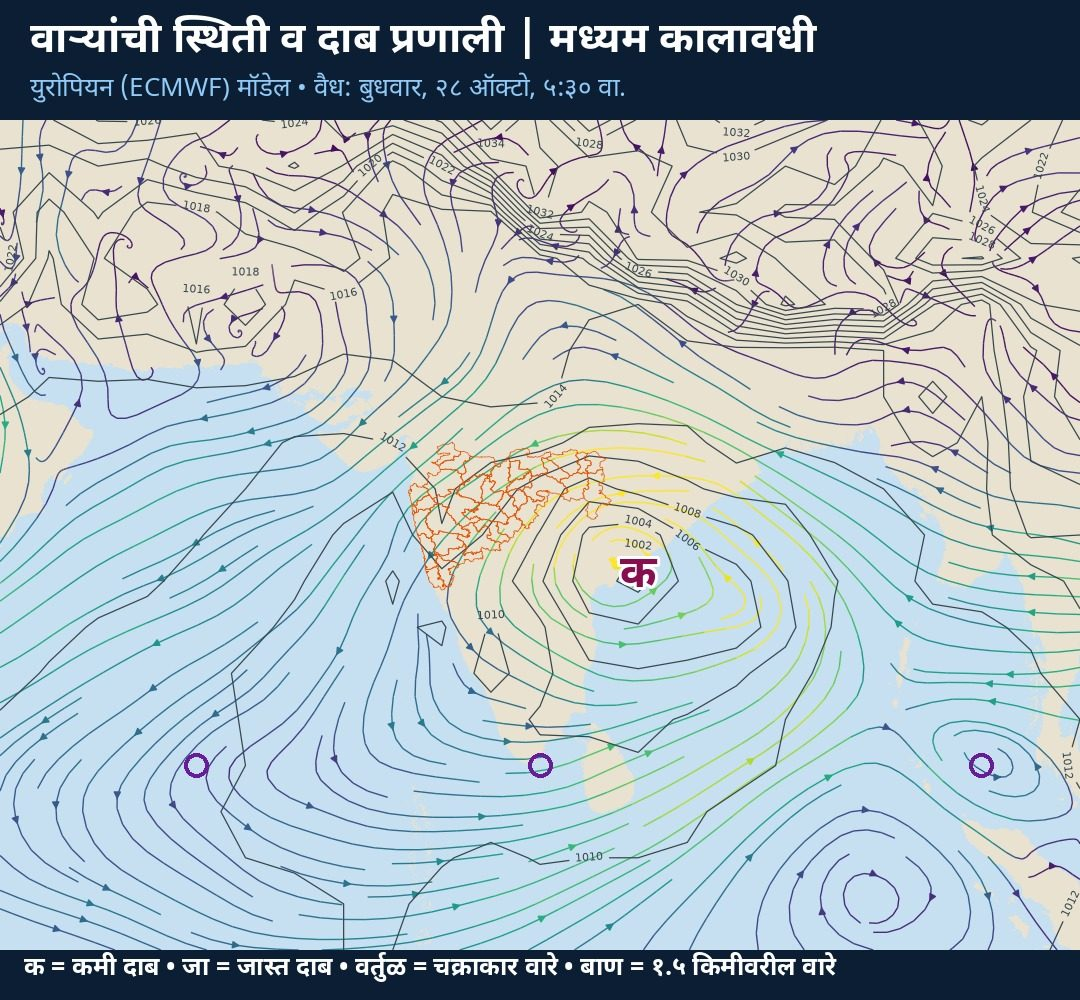
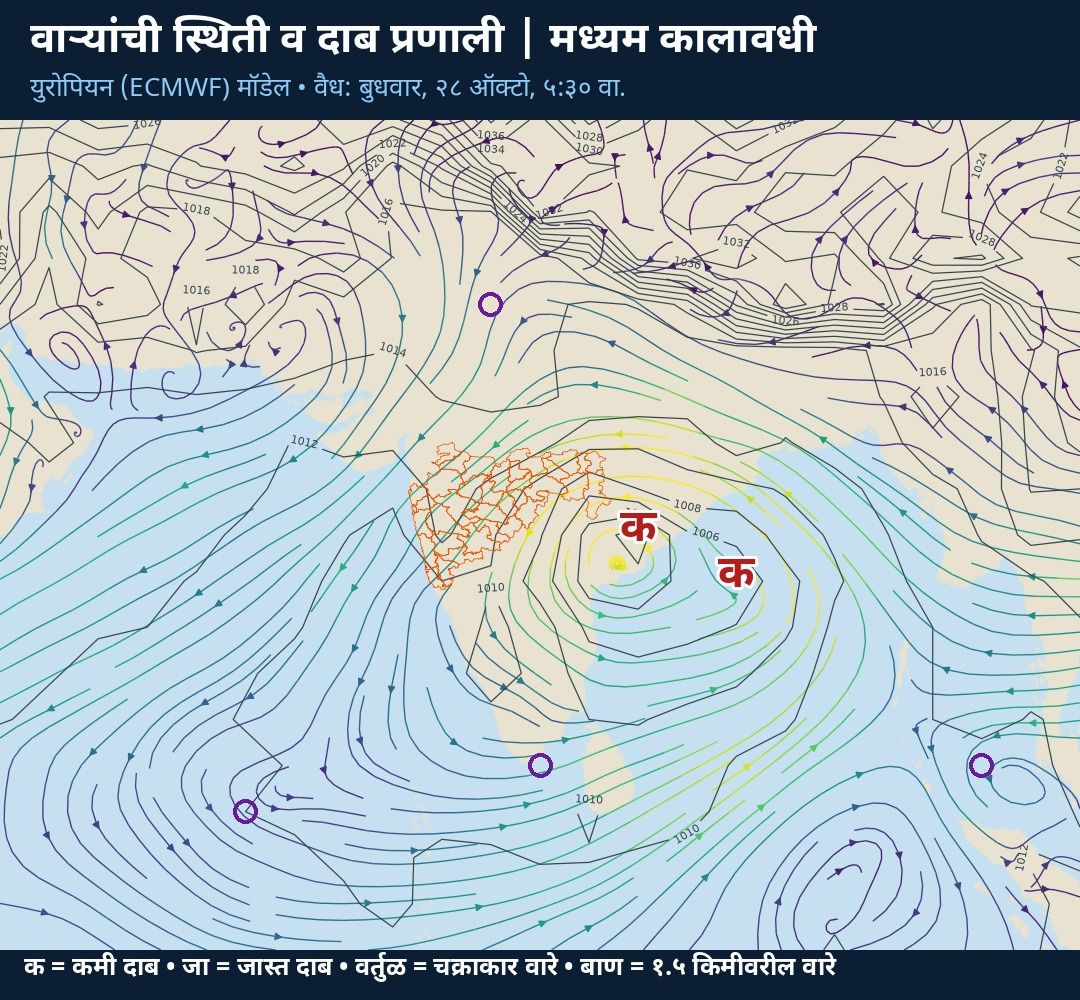
Daily alerts: reel slide gallery, full Marathi discussion, analysis (not forecast) wording

Changed region(s): [[0.0, 0.124, 1.0, 0.961]]

diff --git a/docs/alerts/2026-10-25-hawaman/index.html b/docs/alerts/2026-10-25-hawaman/index.html
@@ -4,11 +4,11 @@
   <meta charset="UTF-8">
   <meta name="viewport" content="width=device-width, initial-scale=1.0">
   <title>पुढील आठवडा (२८ ऑक्टो – ३ नोव्हें) | महाराष्ट्र — हवामान इशारा</title>
-  <meta name="description" content="माहितीपर अंदाज: पुढील आठवडा (२८ ऑक्टो – ३ नोव्हें) | महाराष्ट्र (२५ ऑक्टोबर २०२६)">
+  <meta name="description" content="माहितीपर विश्लेषण: पुढील आठवडा (२८ ऑक्टो – ३ नोव्हें) | महाराष्ट्र (२५ ऑक्टोबर २०२६)">
   <link rel="preconnect" href="https://fonts.googleapis.com">
   <link rel="preconnect" href="https://fonts.gstatic.com" crossorigin>
   <link href="https://fonts.googleapis.com/css2?family=Mukta:wght@400;500;600;700&family=Noto+Serif+Devanagari:wght@600;700&display=swap" rel="stylesheet">
-  <link rel="stylesheet" href="../../static/css/style.css?v=290eacb5">
+  <link rel="stylesheet" href="../../static/css/style.css?v=81dbad4e">
 </head>
 <body>
   <header class="site-header">
@@ -34,33 +34,84 @@
 <article class="article">
   <p class="muted"><a href="../../alerts/index.html">← सर्व इशारे</a></p>
   <div class="alert-banner level-info">
-    <span class="badge badge-info">माहितीपर अंदाज</span>
+    <span class="badge badge-info">माहितीपर विश्लेषण</span>
     <h1>पुढील आठवडा (२८ ऑक्टो – ३ नोव्हें) | महाराष्ट्र</h1>
     <dl class="alert-facts">
       <div><dt>दिनांक</dt><dd><time datetime="2026-10-25">रविवार, २५ ऑक्टोबर २०२६</time></dd></div>
-<div><dt>वैधता</dt><dd>२५ ऑक्टोबर २०२६ पासून — मध्यम कालावधी अंदाज</dd></div><div><dt>जिल्हे/भाग</dt><dd>कोकण, मध्य महाराष्ट्र, मराठवाडा, विदर्भ</dd></div>    </dl>
+<div><dt>वैधता</dt><dd>२५ ऑक्टोबर २०२६ — मध्यम कालावधी विश्लेषण (४–१० दिवस)</dd></div><div><dt>जिल्हे/भाग</dt><dd>कोकण, मध्य महाराष्ट्र, मराठवाडा, विदर्भ</dd></div>    </dl>
   </div>
-  <div class="prose"><p><strong>मध्यम कालावधी अंदाज</strong> · स्रोत: हवामान विज्ञान स्वयंचलित विश्लेषण</p>
+  <section class="reel">
+    <h2>आजचे दृश्य विश्लेषण <span class="muted">(रील स्लाइड्स)</span></h2>
+    <div class="reel-strip">
+      <figure class="reel-slide">
+        <a href="../../static/images/alerts/2026-10-25/reel/01_cover.jpg" target="_blank" rel="noopener"><img src="../../static/images/alerts/2026-10-25/reel/01_cover.jpg" alt="मुखपृष्ठ" loading="lazy" width="540" height="960"></a>
+        <figcaption><span class="slide-n">१</span> मुखपृष्ठ</figcaption>
+      </figure>
+      <figure class="reel-slide">
+        <a href="../../static/images/alerts/2026-10-25/reel/02_short_range.jpg" target="_blank" rel="noopener"><img src="../../static/images/alerts/2026-10-25/reel/02_short_range.jpg" alt="अल्पकालीन विश्लेषण" loading="lazy" width="540" height="960"></a>
+        <figcaption><span class="slide-n">२</span> अल्पकालीन विश्लेषण</figcaption>
+      </figure>
+      <figure class="reel-slide">
+        <a href="../../static/images/alerts/2026-10-25/reel/03_satellite.jpg" target="_blank" rel="noopener"><img src="../../static/images/alerts/2026-10-25/reel/03_satellite.jpg" alt="उपग्रह निरीक्षण" loading="lazy" width="540" height="960"></a>
+        <figcaption><span class="slide-n">३</span> उपग्रह निरीक्षण</figcaption>
+      </figure>
+      <figure class="reel-slide">
+        <a href="../../static/images/alerts/2026-10-25/reel/04_circulation_today_slide.jpg" target="_blank" rel="noopener"><img src="../../static/images/alerts/2026-10-25/reel/04_circulation_today_slide.jpg" alt="आजची वाऱ्यांची स्थिती" loading="lazy" width="540" height="960"></a>
+        <figcaption><span class="slide-n">४</span> आजची वाऱ्यांची स्थिती</figcaption>
+      </figure>
+      <figure class="reel-slide">
+        <a href="../../static/images/alerts/2026-10-25/reel/05_medium_range.jpg" target="_blank" rel="noopener"><img src="../../static/images/alerts/2026-10-25/reel/05_medium_range.jpg" alt="मध्यम कालावधी विश्लेषण" loading="lazy" width="540" height="960"></a>
+        <figcaption><span class="slide-n">५</span> मध्यम कालावधी विश्लेषण</figcaption>
+      </figure>
+      <figure class="reel-slide">
+        <a href="../../static/images/alerts/2026-10-25/reel/06_circulation_week.jpg" target="_blank" rel="noopener"><img src="../../static/images/alerts/2026-10-25/reel/06_circulation_week.jpg" alt="आठवड्याची वाऱ्यांची स्थिती" loading="lazy" width="540" height="960"></a>
+        <figcaption><span class="slide-n">६</span> आठवड्याची वाऱ्यांची स्थिती</figcaption>
+      </figure>
+      <figure class="reel-slide">
+        <a href="../../static/images/alerts/2026-10-25/reel/07_extended_range.jpg" target="_blank" rel="noopener"><img src="../../static/images/alerts/2026-10-25/reel/07_extended_range.jpg" alt="विस्तारित कालावधी विश्लेषण" loading="lazy" width="540" height="960"></a>
+        <figcaption><span class="slide-n">७</span> विस्तारित कालावधी विश्लेषण</figcaption>
+      </figure>
+      <figure class="reel-slide">
+        <a href="../../static/images/alerts/2026-10-25/reel/08_seasonal.jpg" target="_blank" rel="noopener"><img src="../../static/images/alerts/2026-10-25/reel/08_seasonal.jpg" alt="हंगामी विश्लेषण" loading="lazy" width="540" height="960"></a>
+        <figcaption><span class="slide-n">८</span> हंगामी विश्लेषण</figcaption>
+      </figure>
+      <figure class="reel-slide">
+        <a href="../../static/images/alerts/2026-10-25/reel/09_outro.jpg" target="_blank" rel="noopener"><img src="../../static/images/alerts/2026-10-25/reel/09_outro.jpg" alt="समारोप" loading="lazy" width="540" height="960"></a>
+        <figcaption><span class="slide-n">९</span> समारोप</figcaption>
+      </figure>
+    </div>
+  </section>
+  <div class="prose"><p><strong>मध्यम कालावधी विश्लेषण (४–१० दिवस)</strong> · स्रोत: हवामान विज्ञान स्वयंचलित विश्लेषण</p>
 <p>☔ पावसाची शक्यता:<br />
 ⛅ कोकण: कमी<br />
 🌦 म. महाराष्ट्र: मध्यम<br />
 🌦 मराठवाडा: मध्यम<br />
 🌧 विदर्भ: अधिक<br />
-🌀 २८ ऑक्टो रोजी पश्चिम-मध्य बंगालच्या उपसागरात असलेली चक्रीवादळसदृश प्रणाली वायव्येकडे सरकण्याची शक्यता</p>
-<p><img src="../../static/images/alerts/2026-10-25/1_card.jpg" alt="मध्यम कालावधी अंदाज" /></p>
+🌀 २८ ऑक्टो रोजी पश्चिम-मध्य बंगालच्या उपसागरात असलेली तीव्र कमी दाबाचे क्षेत्र वायव्येकडे सरकण्याची शक्यता</p>
+<p><img src="../../static/images/alerts/2026-10-25/1_card.jpg" alt="मध्यम कालावधी विश्लेषण (४–१० दिवस)" /></p>
 <h3>हवामानामागचे कारण</h3>
 <p>🌀 वाऱ्यांची स्थिती व कारणमीमांसा:<br />
-• २८ ऑक्टो रोजी पश्चिम-मध्य बंगालच्या उपसागरात असलेली चक्रीवादळसदृश प्रणाली वायव्येकडे (महाराष्ट्र) सरकण्याची शक्यता (मॉडेल संकेत; IMD च्या अधिकृत माहितीकडे लक्ष ठेवा). या प्रणालीमुळे राज्यात ढगाळ हवामान व पावसाची शक्यता वाढू शकते</p>
-<p>• मध्य भारतावर २९ ऑक्टो दरम्यान तीव्र कमी दाबाचे क्षेत्र (डिप्रेशन) तयार होण्याचे संकेत (मॉडेल संकेत; IMD च्या अधिकृत माहितीकडे लक्ष ठेवा)<br />
-• पूर्व-मध्य अरबी समुद्रात २ नोव्हें दरम्यान कमी दाबाचे क्षेत्र तयार होण्याचे संकेत</p>
-<p>• महाराष्ट्रावर सुमारे १.५ किमी उंचीवर ईशान्येकडून वारे<br />
-• उत्तर भारतात २८ ऑक्टो पासून पश्चिमी विक्षोभ; तो पुढे सरकल्यानंतर उत्तरेकडील थंड वाऱ्यांमुळे राज्यात किमान तापमानात घट होऊ शकते<br />
+• २८ ऑक्टो रोजी पश्चिम-मध्य बंगालच्या उपसागरात असलेली तीव्र कमी दाबाचे क्षेत्र (डिप्रेशन) वायव्येकडे (महाराष्ट्र) सरकण्याची शक्यता (मॉडेल संकेत; IMD च्या अधिकृत माहितीकडे लक्ष ठेवा). या प्रणालीमुळे राज्यात ढगाळ हवामान व पावसाची शक्यता वाढू शकते</p>
+<p>• २८ ऑक्टो रोजी पूर्व भारतावर असलेली तीव्र कमी दाबाचे क्षेत्र (डिप्रेशन) नैऋत्येकडे (महाराष्ट्र) सरकण्याची शक्यता (मॉडेल संकेत; IMD च्या अधिकृत माहितीकडे लक्ष ठेवा)</p>
+<p>• महाराष्ट्रावर १ नोव्हें दरम्यान कमी दाबाचे क्षेत्र तयार होण्याचे संकेत; प्रणाली दक्षिणेकडे (पूर्व-मध्य अरबी समुद्र) सरकण्याची शक्यता<br />
+• महाराष्ट्रावर सुमारे १.५ किमी उंचीवर ईशान्येकडून वारे</p>
+<p>• उत्तर भारतात २८ ऑक्टो पासून पश्चिमी विक्षोभ; तो पुढे सरकल्यानंतर उत्तरेकडील थंड वाऱ्यांमुळे राज्यात किमान तापमानात घट होऊ शकते<br />
 • पुढील काळात हवेच्या मधल्या थरातील बाष्प वाढत आहे</p>
 <p>📌 अधिक तपशील:<br />
 🌡 तापमानात विशेष बदल नाही</p>
 <p>ℹ स्रोत: युरोपियन (ECMWF) ५१-सदस्यीय एन्सेम्बल<br />
-⚠ हा मॉडेल-आधारित अंदाज आहे. अधिकृत इशाऱ्यांसाठी भारतीय हवामान विभाग (IMD) व स्थानिक प्रशासनाच्या सूचना पाहा.</p>
-<p><img src="../../static/images/alerts/2026-10-25/2_circulation_chart.jpg" alt="हवामान प्रणाली" /></p>
+⚠ हे मॉडेल-आधारित विश्लेषण आहे. अधिकृत इशाऱ्यांसाठी भारतीय हवामान विभाग (IMD) व स्थानिक प्रशासनाच्या सूचना पाहा.</p>
+<p><img src="../../static/images/alerts/2026-10-25/2_circulation_chart.jpg" alt="वाऱ्यांची स्थिती व दाब प्रणाली" /></p>
+<h2>सविस्तर हवामान विश्लेषण</h2>
+<h3>अल्पकालीन विश्लेषण (१–३ दिवस)</h3>
+<p>नमस्कार! आज रविवार, २५ ऑक्टोबर. पाहूया महाराष्ट्राचे हवामान विश्लेषण. कोकण: कोरडे हवामान. कमाल तापमान सुमारे ३६ आणि किमान २३ अंश सेल्सिअस. मध्य महाराष्ट्र: कोरडे हवामान. कमाल तापमान सुमारे ३५ आणि किमान २१ अंश सेल्सिअस. मराठवाडा: कोरडे हवामान. कमाल तापमान सुमारे ३४ आणि किमान २० अंश सेल्सिअस. विदर्भ: कोरडे हवामान. कमाल तापमान सुमारे ३४ आणि किमान १८ अंश सेल्सिअस. आता पाहूया हवामानामागचे कारण, म्हणजेच वाऱ्यांची स्थिती. पूर्व-मध्य बंगालच्या उपसागरात तीव्र कमी दाबाचे क्षेत्र (डिप्रेशन) आहे; ते चक्रीवादळसदृश प्रणाली म्हणून तीव्र होण्याचे संकेत; प्रणाली पश्चिमेकडे (पश्चिम-मध्य बंगालचा उपसागर) सरकण्याची शक्यता (मॉडेल संकेत; IMD च्या अधिकृत माहितीकडे लक्ष ठेवा). नैऋत्य बंगालच्या उपसागरात कमी दाबाचे क्षेत्र आहे; ते तीव्र कमी दाबाचे क्षेत्र (डिप्रेशन) म्हणून तीव्र होण्याचे संकेत (मॉडेल संकेत; IMD च्या अधिकृत माहितीकडे लक्ष ठेवा). महाराष्ट्रावर सुमारे १.५ किमी उंचीवर ईशान्येकडून कोरडे वारे; हवेच्या मधल्या थरात आर्द्रता फक्त ३२% असल्याने ढग फारसे तयार होत नाहीत.</p>
+<h3>मध्यम कालावधी विश्लेषण (४–१० दिवस)</h3>
+<p>आता पुढील आठवड्याचा, म्हणजे २८ ऑक्टो – ३ नोव्हें या काळाचे विश्लेषण. युरोपियन हवामान केंद्राच्या ५१ वेगवेगळ्या संभाव्य मॉडेल-परिणामांवर आधारित. कोकण: पावसाची शक्यता कमी. मध्य महाराष्ट्र: पावसाची शक्यता मध्यम (२ नोव्हें जास्त). मराठवाडा: पावसाची शक्यता मध्यम (२ नोव्हें जास्त). विदर्भ: पावसाची शक्यता अधिक (२९ ऑक्टो जास्त).  तापमानात विशेष बदल नाही. या काळातील वाऱ्यांची स्थिती: २८ ऑक्टो रोजी पश्चिम-मध्य बंगालच्या उपसागरात असलेली तीव्र कमी दाबाचे क्षेत्र (डिप्रेशन) वायव्येकडे (महाराष्ट्र) सरकण्याची शक्यता (मॉडेल संकेत; IMD च्या अधिकृत माहितीकडे लक्ष ठेवा). या प्रणालीमुळे राज्यात ढगाळ हवामान व पावसाची शक्यता वाढू शकते. २८ ऑक्टो रोजी पूर्व भारतावर असलेली तीव्र कमी दाबाचे क्षेत्र (डिप्रेशन) नैऋत्येकडे (महाराष्ट्र) सरकण्याची शक्यता (मॉडेल संकेत; IMD च्या अधिकृत माहितीकडे लक्ष ठेवा). महाराष्ट्रावर १ नोव्हें दरम्यान कमी दाबाचे क्षेत्र तयार होण्याचे संकेत; प्रणाली दक्षिणेकडे (पूर्व-मध्य अरबी समुद्र) सरकण्याची शक्यता. महाराष्ट्रावर सुमारे १.५ किमी उंचीवर ईशान्येकडून वारे. उत्तर भारतात २८ ऑक्टो पासून पश्चिमी विक्षोभ; तो पुढे सरकल्यानंतर उत्तरेकडील थंड वाऱ्यांमुळे राज्यात किमान तापमानात घट होऊ शकते. पुढील काळात हवेच्या मधल्या थरातील बाष्प वाढत आहे.</p>
+<h3>विस्तारित विश्लेषण (२–४ आठवडे)</h3>
+<p>आता पुढील तीन आठवड्यांचा विस्तारित विश्लेषण. आठवडा १, २६ ऑक्टो – १ नोव्हें: विदर्भ: पाऊस जास्त; कोकण, म. महाराष्ट्र: कमी. तापमान सरासरीपेक्षा २.० अंश जास्त राहण्याची शक्यता. आठवडा २, २–८ नोव्हें: पाऊस सरासरीइतका. तापमान सरासरीपेक्षा १.९ अंश जास्त राहण्याची शक्यता. आठवडा ३, ९–१५ नोव्हें: राज्यभर पाऊस सरासरीपेक्षा कमी. तापमान सरासरीपेक्षा १.५ अंश जास्त राहण्याची शक्यता. वाऱ्यांचा प्रवाह: १–८ नोव्हें: महाराष्ट्रावर पूर्वेकडून वारे कायम (५१ पैकी ५१ सदस्य); पूर्व/ईशान्येकडील वारे सहसा कोरडे हवामान आणतात. भारतीय हवामान विभाग व आयआयटीएम पुणे यांचे विस्तारित कालावधी नकाशेही हेच संकेत तपासण्यासाठी पाहा.</p>
+<h3>हंगामी विश्लेषण (१–३ महिने)</h3>
+<p>आता नोव्हेंबर ते जानेवारी या हंगामाचा दीर्घकालीन विश्लेषण. नोव्हेंबर: तापमान सरासरीपेक्षा बरेच जास्त, सुमारे +२.५ अंश; पाऊस सरासरीइतका. डिसेंबर: तापमान सरासरीपेक्षा बरेच जास्त, सुमारे +२.३ अंश; पाऊस सरासरीइतका. जानेवारी: तापमान सरासरीपेक्षा बरेच जास्त, सुमारे +२.१ अंश; पाऊस सरासरीइतका. प्रशांत महासागरात तीव्र एल निनो (नीनो-३.४: +३.३°से); तो अजून बळकट होत आहे. एल निनोमुळे येणारा हिवाळा सहसा उबदार; थंडीच्या लाटा कमी.</p>
+<p>हे मॉडेल-आधारित विश्लेषण आहे. अधिकृत इशाऱ्यांसाठी भारतीय हवामान विभाग (IMD) व स्थानिक प्रशासनाच्या सूचना पाहा.</p>
 <p>दैनंदिन अपडेटसाठी X वर फॉलो करा: <a href="https://x.com/arvind_weathLAB">@arvind_weathLAB</a></p>
 </div>
   <p class="disclaimer">हा इशारा माझ्या वैयक्तिक विश्लेषणावर आधारित माहितीपर मजकूर आहे. अधिकृत हवामान अंदाज व इशाऱ्यांसाठी कृपया भारतीय हवामान विभागाचे संकेतस्थळ mausam.imd.gov.in किंवा &#39;मौसम&#39; / &#39;दामिनी&#39; ॲप पाहा.</p>

diff --git a/docs/alerts/index.html b/docs/alerts/index.html
@@ -8,7 +8,7 @@
   <link rel="preconnect" href="https://fonts.googleapis.com">
   <link rel="preconnect" href="https://fonts.gstatic.com" crossorigin>
   <link href="https://fonts.googleapis.com/css2?family=Mukta:wght@400;500;600;700&family=Noto+Serif+Devanagari:wght@600;700&display=swap" rel="stylesheet">
-  <link rel="stylesheet" href="../static/css/style.css?v=290eacb5">
+  <link rel="stylesheet" href="../static/css/style.css?v=81dbad4e">
 </head>
 <body>
   <header class="site-header">
@@ -31,9 +31,10 @@
   </header>
 
   <main class="wrap main">
-<h1 class="page-title">दैनंदिन हवामान इशारे</h1>
-<p class="lead">महाराष्ट्रासाठी दैनंदिन हवामान अंदाज व इशारे — हवामान विज्ञान स्वयंचलित विश्लेषणातून दररोज अद्ययावत.
-  रंग IMD च्या अधिकृत जिल्हानिहाय इशाऱ्यांवरून ठरतो; तो उपलब्ध नसल्यास "माहितीपर अंदाज" दाखवला जातो.</p>
+<h1 class="page-title">दैनंदिन हवामान विश्लेषण व इशारे</h1>
+<p class="lead">महाराष्ट्रासाठी दैनंदिन हवामान विश्लेषण — हवामान विज्ञान स्वयंचलित विश्लेषणातून दररोज सकाळी अद्ययावत:
+  वाऱ्यांची स्थिती, कमी दाबाची क्षेत्रे, उपग्रह निरीक्षण आणि रील स्लाइड्स. रंग फक्त IMD च्या अधिकृत जिल्हानिहाय
+  इशाऱ्यांवरून ठरतो; ते उपलब्ध नसल्यास "माहितीपर विश्लेषण" दाखवले जाते.</p>
 
 <details class="legend card">
   <summary>इशाऱ्यांचे रंग काय सांगतात?</summary>
@@ -42,18 +43,18 @@
     <li><span class="badge badge-yellow">पिवळा इशारा · अद्ययावत राहा</span> — हवामानावर लक्ष ठेवा; परिस्थिती बदलू शकते.</li>
     <li><span class="badge badge-orange">नारंगी इशारा · तयार राहा</span> — धोकादायक हवामानाची शक्यता; आवश्यक तयारी करा.</li>
     <li><span class="badge badge-red">लाल इशारा · कृती करा</span> — अतितीव्र हवामान; स्थानिक प्रशासनाच्या सूचनांचे पालन करा.</li>
-    <li><span class="badge badge-info">माहितीपर अंदाज</span> — IMD चा जिल्हानिहाय इशारा उपलब्ध नसताना प्रसिद्ध केलेला मॉडेल-आधारित अंदाज; अधिकृत इशारा नाही.</li>
+    <li><span class="badge badge-info">माहितीपर विश्लेषण</span> — IMD चा जिल्हानिहाय इशारा उपलब्ध नसताना प्रसिद्ध केलेले मॉडेल-आधारित हवामान विश्लेषण; अधिकृत इशारा नाही.</li>
   </ul>
 </details>
 
 <div class="stack">
 <article class="alert-card level-info">
   <div class="alert-card-top">
-    <span class="badge badge-info">माहितीपर अंदाज</span>
+    <span class="badge badge-info">माहितीपर विश्लेषण</span>
     <time datetime="2026-10-25" class="muted">रविवार, २५ ऑक्टोबर २०२६</time>
   </div>
   <h3><a href="../alerts/2026-10-25-hawaman/index.html">पुढील आठवडा (२८ ऑक्टो – ३ नोव्हें) | महाराष्ट्र</a></h3>
-<p class="alert-meta"><strong>जिल्हे/भाग:</strong> कोकण, मध्य महाराष्ट्र, मराठवाडा, विदर्भ</p><p class="alert-meta"><strong>वैधता:</strong> २५ ऑक्टोबर २०२६ पासून — मध्यम कालावधी अंदाज</p></article></div>
+<p class="alert-meta"><strong>जिल्हे/भाग:</strong> कोकण, मध्य महाराष्ट्र, मराठवाडा, विदर्भ</p><p class="alert-meta"><strong>वैधता:</strong> २५ ऑक्टोबर २०२६ — मध्यम कालावधी विश्लेषण (४–१० दिवस)</p></article></div>
 
 <p class="disclaimer">हा इशारा माझ्या वैयक्तिक विश्लेषणावर आधारित माहितीपर मजकूर आहे. अधिकृत हवामान अंदाज व इशाऱ्यांसाठी कृपया भारतीय हवामान विभागाचे संकेतस्थळ mausam.imd.gov.in किंवा &#39;मौसम&#39; / &#39;दामिनी&#39; ॲप पाहा.</p>
   </main>

diff --git a/docs/index.html b/docs/index.html
@@ -8,7 +8,7 @@
   <link rel="preconnect" href="https://fonts.googleapis.com">
   <link rel="preconnect" href="https://fonts.gstatic.com" crossorigin>
   <link href="https://fonts.googleapis.com/css2?family=Mukta:wght@400;500;600;700&family=Noto+Serif+Devanagari:wght@600;700&display=swap" rel="stylesheet">
-  <link rel="stylesheet" href="./static/css/style.css?v=290eacb5">
+  <link rel="stylesheet" href="./static/css/style.css?v=81dbad4e">
 </head>
 <body>
   <header class="site-header">
@@ -33,7 +33,7 @@
   <main class="wrap main">
 <section class="hero">
   <div class="hero-photo">
-    <img src="./static/images/profile.jpg?v=290eacb5" alt="अरविंद पागिरे" width="200" height="200">
+    <img src="./static/images/profile.jpg?v=81dbad4e" alt="अरविंद पागिरे" width="200" height="200">
   </div>
   <div class="hero-text">
     <p class="eyebrow">हवामानशास्त्रज्ञ · AI-आधारित हवामान अंदाज · हायब्रिड मॉडेलिंग</p>
@@ -61,11 +61,11 @@
   </div>
     <article class="alert-card level-info">
   <div class="alert-card-top">
-    <span class="badge badge-info">माहितीपर अंदाज</span>
+    <span class="badge badge-info">माहितीपर विश्लेषण</span>
     <time datetime="2026-10-25" class="muted">रविवार, २५ ऑक्टोबर २०२६</time>
   </div>
   <h3><a href="./alerts/2026-10-25-hawaman/index.html">पुढील आठवडा (२८ ऑक्टो – ३ नोव्हें) | महाराष्ट्र</a></h3>
-<p class="alert-meta"><strong>जिल्हे/भाग:</strong> कोकण, मध्य महाराष्ट्र, मराठवाडा, विदर्भ</p><p class="alert-meta"><strong>वैधता:</strong> २५ ऑक्टोबर २०२६ पासून — मध्यम कालावधी अंदाज</p></article>
+<p class="alert-meta"><strong>जिल्हे/भाग:</strong> कोकण, मध्य महाराष्ट्र, मराठवाडा, विदर्भ</p><p class="alert-meta"><strong>वैधता:</strong> २५ ऑक्टोबर २०२६ — मध्यम कालावधी विश्लेषण (४–१० दिवस)</p></article>
     <p class="stale-note muted" data-date="2026-10-25" hidden>
       टीप: हा इशारा २५ ऑक्टोबर २०२६ रोजीचा आहे; आजचा इशारा अद्याप प्रसिद्ध झालेला नाही.</p>
   <p class="follow"><a href="https://x.com/arvind_weathLAB" rel="noopener" target="_blank">𝕏 दैनंदिन महाराष्ट्र हवामान अपडेट: @arvind_weathLAB</a></p>

diff --git a/templates/alerts_list.html b/templates/alerts_list.html
@@ -2,9 +2,10 @@
 {% from "_macros.html" import alert_card, level_badge %}
 {% block title %}हवामान इशारे — {{ site.name_mr }}{% endblock %}
 {% block content %}
-<h1 class="page-title">दैनंदिन हवामान इशारे</h1>
-<p class="lead">महाराष्ट्रासाठी दैनंदिन हवामान अंदाज व इशारे — हवामान विज्ञान स्वयंचलित विश्लेषणातून दररोज अद्ययावत.
-  रंग IMD च्या अधिकृत जिल्हानिहाय इशाऱ्यांवरून ठरतो; तो उपलब्ध नसल्यास "माहितीपर अंदाज" दाखवला जातो.</p>
+<h1 class="page-title">दैनंदिन हवामान विश्लेषण व इशारे</h1>
+<p class="lead">महाराष्ट्रासाठी दैनंदिन हवामान विश्लेषण — हवामान विज्ञान स्वयंचलित विश्लेषणातून दररोज सकाळी अद्ययावत:
+  वाऱ्यांची स्थिती, कमी दाबाची क्षेत्रे, उपग्रह निरीक्षण आणि रील स्लाइड्स. रंग फक्त IMD च्या अधिकृत जिल्हानिहाय
+  इशाऱ्यांवरून ठरतो; ते उपलब्ध नसल्यास "माहितीपर विश्लेषण" दाखवले जाते.</p>
 
 <details class="legend card">
   <summary>इशाऱ्यांचे रंग काय सांगतात?</summary>

diff --git a/templates/alert.html b/templates/alert.html
@@ -1,7 +1,7 @@
 {% extends "base.html" %}
 {% from "_macros.html" import level_badge %}
 {% block title %}{{ alert.title }} — हवामान इशारा{% endblock %}
-{% block description %}{{ alert.lvl.label }} {{ "अंदाज" if alert.level == "info" else "इशारा" }}: {{ alert.title }} ({{ alert.date_mr }}){% endblock %}
+{% block description %}{{ alert.lvl.label }} {{ "विश्लेषण" if alert.level == "info" else "इशारा" }}: {{ alert.title }} ({{ alert.date_mr }}){% endblock %}
 {% block content %}
 <article class="article">
   <p class="muted"><a href="{{ root }}alerts/">← सर्व इशारे</a></p>
@@ -16,6 +16,19 @@
       {% if alert.hazards %}<div><dt>धोके</dt><dd>{{ alert.hazards | join(", ") }}</dd></div>{% endif %}
     </dl>
   </div>
+  {% if alert.slides %}
+  <section class="reel">
+    <h2>आजचे दृश्य विश्लेषण <span class="muted">(रील स्लाइड्स)</span></h2>
+    <div class="reel-strip">
+      {% for s in alert.slides %}
+      <figure class="reel-slide">
+        <a href="{{ root }}{{ s.src }}" target="_blank" rel="noopener"><img src="{{ root }}{{ s.src }}" alt="{{ s.label }}" loading="lazy" width="540" height="960"></a>
+        <figcaption><span class="slide-n">{{ loop.index | mr }}</span> {{ s.label }}</figcaption>
+      </figure>
+      {% endfor %}
+    </div>
+  </section>
+  {% endif %}
   <div class="prose">{{ alert.body | safe }}</div>
   <p class="disclaimer">{{ site.alert_disclaimer }}</p>
 </article>

diff --git a/docs/static/css/style.css b/docs/static/css/style.css
@@ -215,6 +215,19 @@ ul.plain li { margin-bottom: .7em; }
 .disclaimer { margin-top: 2em; font-size: .95rem; color: var(--muted); border-top: 1px solid var(--line); padding-top: 1em; }
 .stale-note { margin-top: .6em; font-size: .95rem; }
 
+/* reel slides gallery on alert pages */
+.reel { margin: 0 0 1.8em; }
+.reel h2 { font-size: 1.25rem; }
+.reel-strip { display: grid; grid-auto-flow: column; grid-auto-columns: minmax(170px, 200px); gap: 14px;
+  overflow-x: auto; padding: 4px 2px 14px; scroll-snap-type: x mandatory; }
+.reel-slide { margin: 0; scroll-snap-align: start; }
+.reel-slide img { display: block; width: 100%; height: auto; aspect-ratio: 9 / 16; object-fit: cover;
+  border-radius: 12px; box-shadow: var(--shadow); transition: transform .15s; }
+.reel-slide a:hover img { transform: translateY(-3px); }
+.reel-slide figcaption { font-size: .88rem; color: var(--muted); margin-top: 6px; line-height: 1.4; }
+.slide-n { display: inline-grid; place-items: center; width: 22px; height: 22px; border-radius: 50%;
+  background: var(--brand); color: #fff; font-size: .78rem; font-weight: 700; margin-right: 4px; }
+
 /* ---------- about ---------- */
 .timeline { list-style: none; padding: 0 0 0 22px; margin: 0; border-left: 3px solid var(--brand-soft); }
 .timeline li { position: relative; padding: 0 0 22px 18px; }

diff --git a/static/css/style.css b/static/css/style.css
@@ -215,6 +215,19 @@ ul.plain li { margin-bottom: .7em; }
 .disclaimer { margin-top: 2em; font-size: .95rem; color: var(--muted); border-top: 1px solid var(--line); padding-top: 1em; }
 .stale-note { margin-top: .6em; font-size: .95rem; }
 
+/* reel slides gallery on alert pages */
+.reel { margin: 0 0 1.8em; }
+.reel h2 { font-size: 1.25rem; }
+.reel-strip { display: grid; grid-auto-flow: column; grid-auto-columns: minmax(170px, 200px); gap: 14px;
+  overflow-x: auto; padding: 4px 2px 14px; scroll-snap-type: x mandatory; }
+.reel-slide { margin: 0; scroll-snap-align: start; }
+.reel-slide img { display: block; width: 100%; height: auto; aspect-ratio: 9 / 16; object-fit: cover;
+  border-radius: 12px; box-shadow: var(--shadow); transition: transform .15s; }
+.reel-slide a:hover img { transform: translateY(-3px); }
+.reel-slide figcaption { font-size: .88rem; color: var(--muted); margin-top: 6px; line-height: 1.4; }
+.slide-n { display: inline-grid; place-items: center; width: 22px; height: 22px; border-radius: 50%;
+  background: var(--brand); color: #fff; font-size: .78rem; font-weight: 700; margin-right: 4px; }
+
 /* ---------- about ---------- */
 .timeline { list-style: none; padding: 0 0 0 22px; margin: 0; border-left: 3px solid var(--brand-soft); }
 .timeline li { position: relative; padding: 0 0 22px 18px; }

diff --git a/docs/about/index.html b/docs/about/index.html
@@ -8,7 +8,7 @@
   <link rel="preconnect" href="https://fonts.googleapis.com">
   <link rel="preconnect" href="https://fonts.gstatic.com" crossorigin>
   <link href="https://fonts.googleapis.com/css2?family=Mukta:wght@400;500;600;700&family=Noto+Serif+Devanagari:wght@600;700&display=swap" rel="stylesheet">
-  <link rel="stylesheet" href="../static/css/style.css?v=290eacb5">
+  <link rel="stylesheet" href="../static/css/style.css?v=81dbad4e">
 </head>
 <body>
   <header class="site-header">

diff --git a/docs/blog/index.html b/docs/blog/index.html
@@ -8,7 +8,7 @@
   <link rel="preconnect" href="https://fonts.googleapis.com">
   <link rel="preconnect" href="https://fonts.gstatic.com" crossorigin>
   <link href="https://fonts.googleapis.com/css2?family=Mukta:wght@400;500;600;700&family=Noto+Serif+Devanagari:wght@600;700&display=swap" rel="stylesheet">
-  <link rel="stylesheet" href="../static/css/style.css?v=290eacb5">
+  <link rel="stylesheet" href="../static/css/style.css?v=81dbad4e">
 </head>
 <body>
   <header class="site-header">

diff --git a/docs/contact/index.html b/docs/contact/index.html
@@ -8,7 +8,7 @@
   <link rel="preconnect" href="https://fonts.googleapis.com">
   <link rel="preconnect" href="https://fonts.gstatic.com" crossorigin>
   <link href="https://fonts.googleapis.com/css2?family=Mukta:wght@400;500;600;700&family=Noto+Serif+Devanagari:wght@600;700&display=swap" rel="stylesheet">
-  <link rel="stylesheet" href="../static/css/style.css?v=290eacb5">
+  <link rel="stylesheet" href="../static/css/style.css?v=81dbad4e">
 </head>
 <body>
   <header class="site-header">

diff --git a/docs/publications/index.html b/docs/publications/index.html
@@ -8,7 +8,7 @@
   <link rel="preconnect" href="https://fonts.googleapis.com">
   <link rel="preconnect" href="https://fonts.gstatic.com" crossorigin>
   <link href="https://fonts.googleapis.com/css2?family=Mukta:wght@400;500;600;700&family=Noto+Serif+Devanagari:wght@600;700&display=swap" rel="stylesheet">
-  <link rel="stylesheet" href="../static/css/style.css?v=290eacb5">
+  <link rel="stylesheet" href="../static/css/style.css?v=81dbad4e">
 </head>
 <body>
   <header class="site-header">

diff --git a/docs/404.html b/docs/404.html
@@ -8,7 +8,7 @@
   <link rel="preconnect" href="https://fonts.googleapis.com">
   <link rel="preconnect" href="https://fonts.gstatic.com" crossorigin>
   <link href="https://fonts.googleapis.com/css2?family=Mukta:wght@400;500;600;700&family=Noto+Serif+Devanagari:wght@600;700&display=swap" rel="stylesheet">
-  <link rel="stylesheet" href="./static/css/style.css?v=290eacb5">
+  <link rel="stylesheet" href="./static/css/style.css?v=81dbad4e">
 </head>
 <body>
   <header class="site-header">
